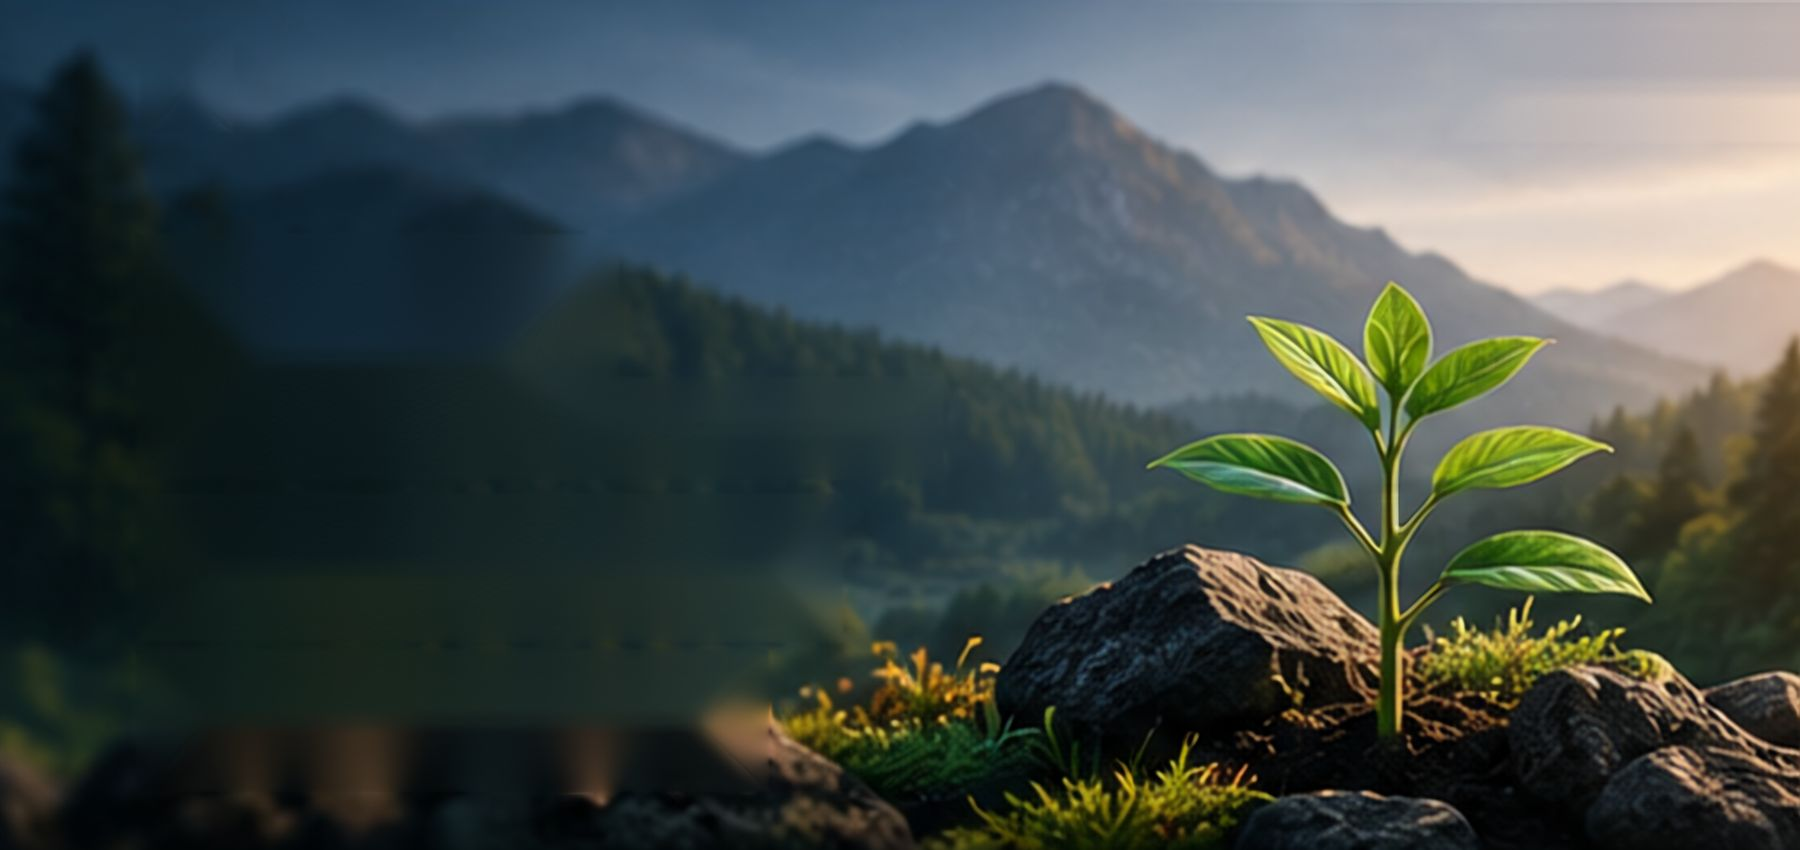
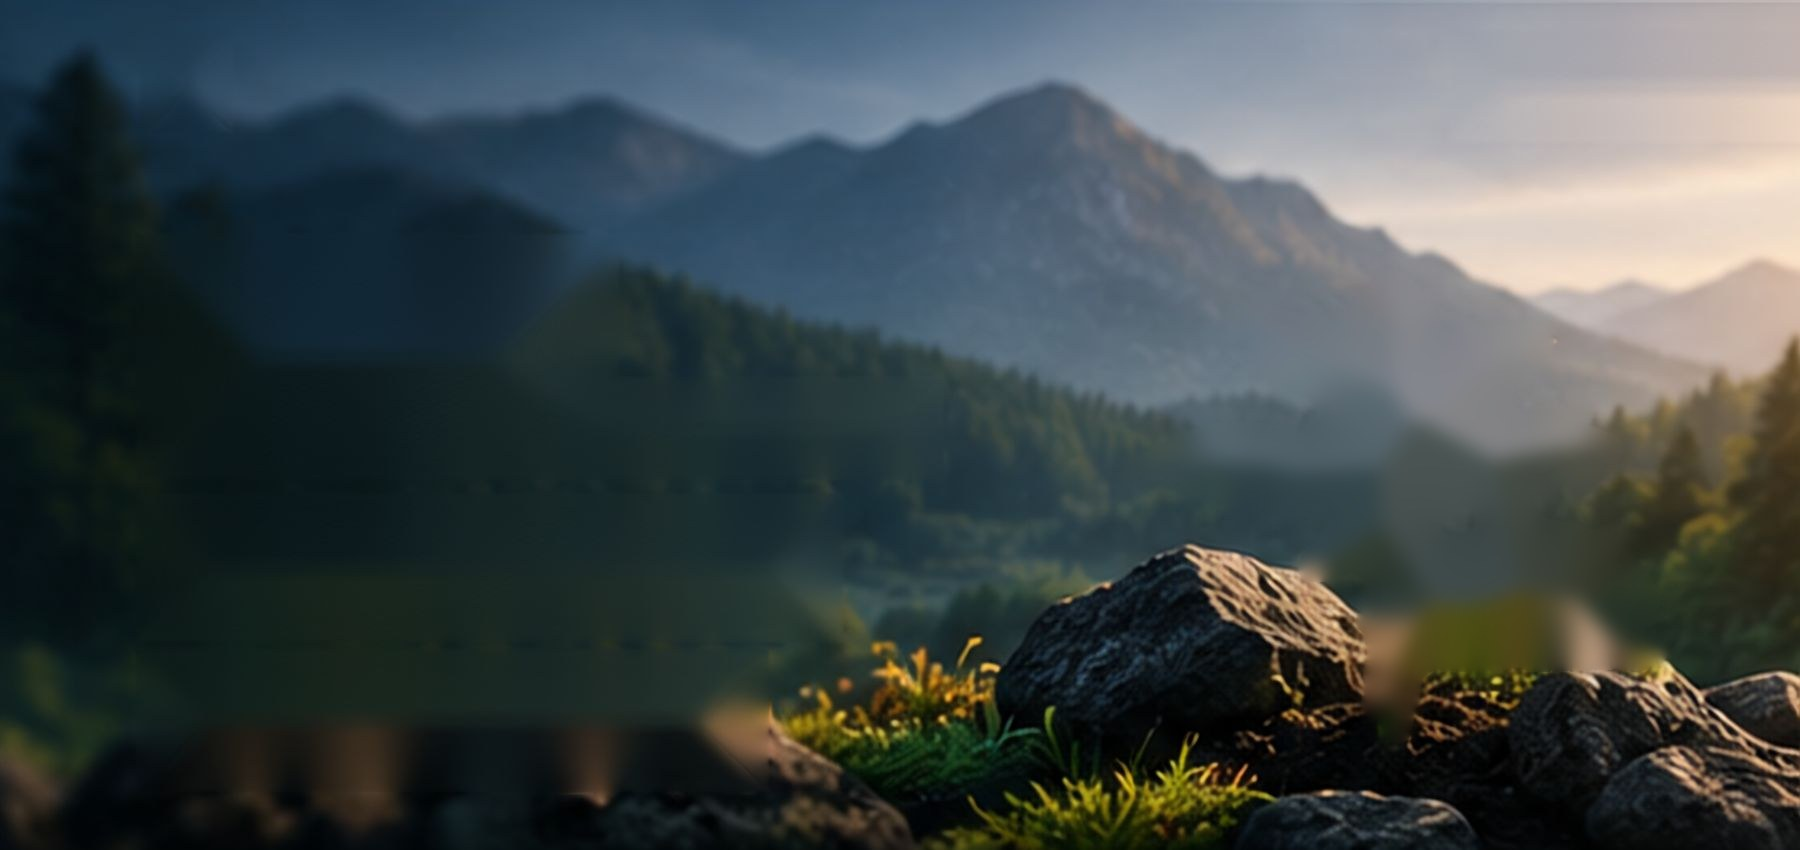
v4.5: росток на главной растёт вместе с выполненными делами плана
Claude-Session: https://claude.ai/code/session_01KbYSnjtf7E2Um9Jogwf8tN

Changed region(s): [[0.6222, 0.3365, 0.9333, 0.8565]]

diff --git a/app.js b/app.js
@@ -1,6 +1,6 @@
 (function () {
   'use strict';
-  var APP_VERSION = '4.4';
+  var APP_VERSION = '4.5';
   var P = window.PLAN, COURSES = window.COURSES;
   var DOW = ['Пн', 'Вт', 'Ср', 'Чт', 'Пт', 'Сб', 'Вс'];
   var DOWF = ['Понедельник', 'Вторник', 'Среда', 'Четверг', 'Пятница', 'Суббота', 'Воскресенье'];
@@ -445,18 +445,85 @@
   }
   function resumeLabel() { var x = resumeTarget(); return x ? (x.c.steps[x.i].exam ? 'Пройти экзамен' : 'Продолжить обучение') : 'К направлениям'; }
 
+
+  // ----- Росток растёт вместе с выполненными делами плана -----
+  function planProgress() {
+    var done = 0, all = 0;
+    for (var i = 0; i < N; i++) { var s = stat(i); done += s.done; all += s.n; }
+    return { done: done, all: all, p: all ? done / all : 0 };
+  }
+  var PLANT_STAGES = [[0.03, 'Семечко в земле'], [0.15, 'Первый росток'], [0.35, 'Молодой побег'], [0.6, 'Саженец'], [0.85, 'Крепкое деревце'], [1, 'Почти пышное дерево'], [2, 'Пышное дерево']];
+  function plantStage(p) { for (var i = 0; i < PLANT_STAGES.length; i++) if (p < PLANT_STAGES[i][0]) return PLANT_STAGES[i][1]; return PLANT_STAGES[PLANT_STAGES.length - 1][1]; }
+  function plantSvg(p) {
+    p = Math.max(0, Math.min(1, p));
+    var g = p >= 1 ? 1 : Math.pow(p, 0.7), out = '', GY = 138;
+    function sc(a, b) { return Math.max(0, Math.min(1, (g - a) / (b - a))); }
+    function leaf(x, y, ang, k, col) { return k <= 0.02 ? '' : '<path transform="translate(' + x.toFixed(1) + ' ' + y.toFixed(1) + ') rotate(' + ang + ') scale(' + k.toFixed(2) + ')" d="M0 0C5-7 15-7 20 0C15 7 5 7 0 0Z" fill="' + col + '"/>'; }
+    var th = 3 + g * 82, tw = 2 + g * 6.5, topY = GY - th, lean = g * 2;
+    out += '<ellipse cx="60" cy="' + (GY + 4) + '" rx="' + (22 + g * 14) + '" ry="6" fill="#2b1d12" opacity=".55"/><path d="M30 ' + (GY + 6) + 'Q60 ' + (GY - 8) + ' 90 ' + (GY + 6) + 'Z" fill="#4a3220"/>';
+    if (p <= 0) return '<svg class="plant" viewBox="0 0 120 150" aria-hidden="true">' + out + '<ellipse cx="60" cy="' + (GY - 3) + '" rx="4" ry="2.6" fill="#a9792f"/></svg>';
+    // ствол
+    out += '<g class="plant-sway"><path d="M' + (60 - tw * 0.65) + ' ' + GY + 'Q' + (60 - tw * 0.4 + lean) + ' ' + (GY - th * 0.5) + ' ' + (60 - tw * 0.3 + lean) + ' ' + topY + 'L' + (60 + tw * 0.3 + lean) + ' ' + topY + 'Q' + (60 + tw * 0.4 + lean) + ' ' + (GY - th * 0.5) + ' ' + (60 + tw * 0.65) + ' ' + GY + 'Z" fill="' + (g < 0.3 ? '#5da24a' : '#8a5a33') + '"/>';
+    // ветки
+    var br = [[0.42, -1, 0.3], [0.55, 1, 0.38], [0.7, -1, 0.5], [0.8, 1, 0.58]];
+    br.forEach(function (b) {
+      var k = sc(b[2], b[2] + 0.2); if (k <= 0) return;
+      var by = GY - th * b[0], bx = 60 + (b[0] * lean) * 0.6, len = (10 + g * 20) * k, ex = bx + b[1] * len, ey = by - len * 0.7;
+      out += '<path d="M' + bx + ' ' + by + 'Q' + (bx + b[1] * len * 0.5) + ' ' + (by - 2) + ' ' + ex + ' ' + ey + '" stroke="#8a5a33" stroke-width="' + (1.2 + k * 1.6) + '" fill="none" stroke-linecap="round"/>';
+      out += leaf(ex, ey, b[1] > 0 ? -35 : 215, 0.5 + k * 0.5, '#22c55e') + leaf(ex, ey, b[1] > 0 ? 10 : 170, 0.4 + k * 0.5, '#4ade80');
+    });
+    // листья парами вдоль ствола
+    [[0.3, 0.04], [0.45, 0.12], [0.6, 0.22], [0.75, 0.3]].forEach(function (l, i) {
+      var k = sc(l[1], l[1] + 0.18); if (k <= 0 || g > 0.62) return;
+      var y = GY - th * l[0], x = 60 + l[0] * lean, f = 1 - sc(0.5, 0.62);
+      out += leaf(x, y, -25 + (i % 2) * 8, (0.5 + k * 0.7) * f, '#4ade80') + leaf(x, y - 4, 205 - (i % 2) * 8, (0.5 + k * 0.7) * f, '#22c55e');
+    });
+    // верхушка: два семядольных листика, потом пучок
+    var tx = 60 + lean, kt = 0.5 + Math.min(1, g * 2.2) * 0.9;
+    out += leaf(tx, topY + 1, -40, kt, '#4ade80') + leaf(tx, topY + 1, 220, kt, '#22c55e') + leaf(tx, topY, -88, kt * 0.8, '#86efac');
+    // крона
+    var cr = sc(0.42, 1);
+    if (cr > 0) {
+      var cy = topY + 4, R = 10 + cr * 30;
+      [[0, 0, 1, '#16a34a'], [-0.75, 0.35, 0.8, '#15803d'], [0.75, 0.35, 0.8, '#15803d'], [-0.5, -0.45, 0.82, '#22c55e'], [0.5, -0.45, 0.82, '#22c55e'], [0, -0.7, 0.75, '#4ade80'], [-1.05, 0.0, 0.55, '#22c55e'], [1.05, 0.0, 0.55, '#22c55e']].forEach(function (c, i) {
+        var kk = sc(0.42 + i * 0.045, 0.62 + i * 0.045); if (kk <= 0) return;
+        out += '<circle cx="' + (tx + c[0] * R * 0.95).toFixed(1) + '" cy="' + (cy + c[1] * R * 0.7 - R * 0.25).toFixed(1) + '" r="' + (R * c[2] * kk).toFixed(1) + '" fill="' + c[3] + '"/>';
+      });
+      // блики
+      if (cr > 0.5) out += '<circle cx="' + (tx - R * 0.35).toFixed(1) + '" cy="' + (cy - R * 0.75).toFixed(1) + '" r="' + (R * 0.22).toFixed(1) + '" fill="#bbf7d0" opacity=".55"/><circle cx="' + (tx + R * 0.45).toFixed(1) + '" cy="' + (cy - R * 0.4).toFixed(1) + '" r="' + (R * 0.16).toFixed(1) + '" fill="#bbf7d0" opacity=".45"/>';
+    }
+    // цветы и плоды на самом верху пути
+    if (p >= 0.9) {
+      var R2 = 10 + cr * 30, fk = Math.min(1, (p - 0.9) / 0.1);
+      [[-0.7, 0.05], [0.55, -0.35], [0.1, 0.45], [-0.25, -0.55], [0.85, 0.25]].forEach(function (f) {
+        out += '<circle cx="' + (tx + f[0] * R2).toFixed(1) + '" cy="' + (topY + 4 + f[1] * R2 * 0.7 - R2 * 0.25).toFixed(1) + '" r="' + (2.4 * fk).toFixed(1) + '" fill="' + (p >= 1 ? '#fbbf24' : '#fde68a') + '"/>';
+      });
+    }
+    return '<svg class="plant" viewBox="0 0 120 150" aria-hidden="true">' + out + '</g></svg>';
+  }
+  function growPill() {
+    var pr = planProgress(), pc = Math.round(pr.p * 100);
+    return '<div class="grow-pill only-d"><b>' + plantStage(pr.p) + '</b><span>' + pr.done + ' из ' + pr.all + ' дел · ' + pc + '%</span></div>';
+  }
+  function growCard() {
+    var pr = planProgress(), pc = Math.round(pr.p * 100), stage = plantStage(pr.p);
+    return '<div class="grow" role="img" aria-label="Росток: ' + stage + ', выполнено ' + pc + '% дел плана">' +
+      '<div class="grow-t"><span class="grow-k">Твой росток</span><b>' + stage + '</b><span class="grow-s">' + pr.done + ' из ' + pr.all + ' дел · ' + pc + '%</span><i class="grow-bar"><u style="width:' + pc + '%"></u></i></div></div>';
+  }
+
   // ----- Главная -----
   function viewToday() {
     var d = dateOf(sel), s = stat(sel), wk = Math.floor(sel / 7), rt = rawToday(), ov = overall();
     var dateText = d.getDate() + ' ' + MON[d.getMonth()] + ', ' + DOWF[sel % 7].toLowerCase();
     var h = '<section class="view home-view">' +
       '<header class="m-head only-m"><div class="brand">' + I.leaf + '<b>ROSTOK</b></div>' + headTools(false, true) + '</header>' +
-      '<div class="hero"><div class="hero-bg" aria-hidden="true"></div>' +
+      '<div class="hero"><div class="hero-stage"><div class="hero-bg" aria-hidden="true"><div class="hero-scene">' + plantSvg(planProgress().p) + '</div></div>' +
       '<div class="hero-top only-d"><span class="hero-leaf">' + I.leaf + '</span>' + headTools(true, false) + '</div>' +
       '<div class="hero-main"><div class="hero-copy"><span class="hero-leaf only-m">' + I.leaf + '</span><h1 class="hero-title"><span class="only-d">ROSTOK</span><span class="only-m">Развивай себя каждый день</span></h1>' +
       '<p class="hero-tag only-d">Знания. Привычки. Развитие.</p><p class="hero-sub only-d">Маленькие шаги каждый день приводят к большим результатам.</p>' +
-      '<button class="btn hero-btn only-d" data-act="resume">' + resumeLabel() + ' ' + I.arrow + '</button></div>' +
+      '<button class="btn hero-btn only-d" data-act="resume">' + resumeLabel() + ' ' + I.arrow + '</button>' +
       '<blockquote class="hero-quote only-d">«' + quote(sel) + '»<span>' + I.leaf + '</span></blockquote></div>' +
+      '<div class="hero-side">' + growCard() + '</div></div>' + growPill() + '</div>' +
       '<div class="dirs only-d">' + DIRS.map(function (x) { return '<button class="dir" ' + (x.id === 'art' ? 'data-learnfilter="art"' : 'data-course="' + x.courses[0] + '"') + ' style="--cc:var(--c-' + x.cat + ')"><span class="dir-ic">' + CI[x.cat] + '</span><b>' + x.name + '</b><span>' + x.desc + '</span><i>' + I.arrow + '</i></button>'; }).join('') + '</div></div>' +
       '<p class="m-date only-m">' + dateText + '</p>' + '<div class="only-m">' + weekStrip() + '</div>';
     if (rt < 0) h += '<p class="muted">План начнётся ' + START.getDate() + ' ' + MON[START.getMonth()] + '.</p>';

diff --git a/index.html b/index.html
@@ -704,6 +704,43 @@ main#app.full{padding-bottom:calc(env(safe-area-inset-bottom,0px) + 32px)}
   .hero-quote{max-width:280px;margin-top:20px}
 }
 @media(max-width:767px){:root:not([data-theme=light]) .ccard{border-color:transparent}.topbar .avatar{display:none}.learn-view .tb-title .muted{display:none}.stabs .chip{padding:0 14px}.stat-grid{display:flex;flex-direction:column;gap:16px}}
+
+/* Росток 4.5: растущее дерево */
+.hero-stage{display:contents}
+.hero-bg{background:none!important;container-type:size;overflow:hidden}
+.hero-scene{--px:.72;--py:.55;position:absolute;width:max(100cqw,calc(100cqh*2.1176));aspect-ratio:1800/850;left:calc((100cqw - max(100cqw,calc(100cqh*2.1176)))*var(--px));top:calc((100cqh - max(100cqh,calc(100cqw/2.1176)))*var(--py));background:url(img/hero.jpg) 0 0/100% 100% no-repeat}
+.hero-bg::after{z-index:1}
+.hero-scene .plant{position:absolute;left:77.1%;bottom:12.9%;width:min(24%,55cqh);height:auto;aspect-ratio:120/150;transform:translate(-50%,8%);overflow:visible;filter:drop-shadow(0 6px 14px rgba(0,0,0,.35))}
+.plant-sway{transform-origin:60px 138px;animation:plantsway 6s ease-in-out infinite}
+@keyframes plantsway{0%,100%{transform:rotate(-1deg)}50%{transform:rotate(1deg)}}
+.hero-side{display:flex;flex-direction:column;gap:12px;flex:none}
+.grow{display:flex;flex-direction:column;gap:2px;color:#fff;min-width:0}
+.grow-t{display:flex;flex-direction:column;gap:2px;min-width:0}
+.grow-k{font-size:11px;letter-spacing:.08em;text-transform:uppercase;opacity:.8}
+.grow-t b{font-size:15px;line-height:1.2;font-weight:700}
+.grow-s{font-size:12px;opacity:.85}
+.grow-bar{display:block;height:5px;border-radius:3px;background:rgba(255,255,255,.25);margin-top:5px;overflow:hidden}
+.grow-bar u{display:block;height:100%;background:#4ADE80;border-radius:3px;text-decoration:none}
+@media(max-width:767px){
+  .hero-scene{--px:.92}
+  .home-view .hero{min-height:340px}
+  .home-view .hero-main{position:static}
+  .hero-side{position:absolute;top:14px;right:14px;width:172px;z-index:2}
+  .grow{background:rgba(10,18,14,.5);-webkit-backdrop-filter:blur(8px);backdrop-filter:blur(8px);border-radius:12px;padding:8px 10px}
+  .home-view .hero-copy .hero-leaf{display:none}
+}
+@media(min-width:768px){
+  .hero-stage{position:relative;display:block}
+  .hero-bg{inset:-22px -34px 0 -34px}
+  .hero-scene{--px:.5;--py:1}
+  .hero-scene .plant{width:min(25%,60cqh)}
+  .hero-side{display:none}
+  .grow-pill{z-index:3;position:absolute;right:0;bottom:14px;display:flex!important;align-items:center;gap:8px;white-space:nowrap;color:#fff;font-size:12.5px;background:rgba(10,18,14,.55);-webkit-backdrop-filter:blur(8px);backdrop-filter:blur(8px);border:1px solid rgba(255,255,255,.18);border-radius:999px;padding:6px 14px}
+  .grow-pill span{opacity:.85}
+  .grow{background:rgba(18,30,24,.42);-webkit-backdrop-filter:blur(12px);backdrop-filter:blur(12px);border:1px solid rgba(255,255,255,.18);border-radius:18px;padding:14px 18px}
+  .home-view .hero-quote{margin:20px 0 0!important;max-width:360px!important;padding:16px 18px 10px!important;font-size:15.5px!important}
+}
+@media(prefers-reduced-motion:reduce){.plant-sway{animation:none}}
 </style>
 </head>
 <body>
@@ -711,9 +748,9 @@ main#app.full{padding-bottom:calc(env(safe-area-inset-bottom,0px) + 32px)}
 <nav class="tabbar" id="tabbar" aria-label="Разделы"></nav>
 <div class="toast" id="toast" hidden></div>
 <div class="modal" id="modal" hidden></div>
-<script src="plan.js?v=4.4"></script>
-<script src="courses.js?v=4.4"></script>
-<script src="app.js?v=4.4"></script>
+<script src="plan.js?v=4.5"></script>
+<script src="courses.js?v=4.5"></script>
+<script src="app.js?v=4.5"></script>
 <script>
 if ('serviceWorker' in navigator) {
   var hadController = !!navigator.serviceWorker.controller;

diff --git a/sw.js b/sw.js
@@ -1,6 +1,6 @@
 // Офлайн-кеш. При обновлении приложения меняется номер версии.
-var C = 'rostok-v4-4';
-var F = ['./', 'index.html', 'app.js?v=4.4', 'plan.js?v=4.4', 'courses.js?v=4.4', 'manifest.webmanifest', 'icon-192.png', 'icon-512.png', 'apple-touch-icon.png', 'img/hero.jpg'];
+var C = 'rostok-v4-5';
+var F = ['./', 'index.html', 'app.js?v=4.5', 'plan.js?v=4.5', 'courses.js?v=4.5', 'manifest.webmanifest', 'icon-192.png', 'icon-512.png', 'apple-touch-icon.png', 'img/hero.jpg'];
 self.addEventListener('install', function (e) { e.waitUntil(caches.open(C).then(function (c) { return c.addAll(F); })); self.skipWaiting(); });
 self.addEventListener('activate', function (e) {
   e.waitUntil(caches.keys().then(function (k) { return Promise.all(k.filter(function (x) { return x.indexOf('rostok-') === 0 && x !== C; }).map(function (x) { return caches.delete(x); })); }));

diff --git a/HANDOFF.md b/HANDOFF.md
@@ -83,3 +83,10 @@
 - Планшет: 768–1199px (iPad вертикально и горизонтально): узкое меню-рейка слева 84px с иконками и подписями, светлая тема, направления 3 в ряд, курсы 2 колонки (от 1024 — 3), урок с колонкой шагов 200px.
 - Компьютер: от 1200px — полное боковое меню 240px; от 1600px контент шире (до 1320px).
 - Проверено в Chromium: 360, 390, 768, 834, 1024, 1280, 1920 — все экраны без горизонтальной прокрутки и ошибок JS. Настоящие iPhone/iPad (Safari) НЕ проверены.
+
+## v4.5: росток на главной растёт вместе с делами
+- Растение рисуется кодом (SVG) в `plantSvg(p)` в app.js, p = выполненные дела плана / все дела плана за 35 дней (`planProgress()`).
+- Стадии (`PLANT_STAGES`): Семечко в земле → Первый росток → Молодой побег → Саженец → Крепкое деревце → Почти пышное дерево → Пышное дерево (100%). Рост плавный, на 90%+ появляются цветы, на 100% — плоды.
+- Из фото `img/hero.jpg` нарисованный росток убран (заретушировано), оригинал не в репозитории. Фото и дерево лежат в одном слое `.hero-scene`, поэтому дерево всегда стоит на камнях при любой ширине.
+- Телефон: карточка «Твой росток» справа сверху. Планшет и ПК: плашка со стадией внизу справа, цитата перенесена под кнопку.
+- Тесты: 36. iPhone/iPad Safari не проверены (нужен Safari 16+ из-за единиц cqw/cqh).
